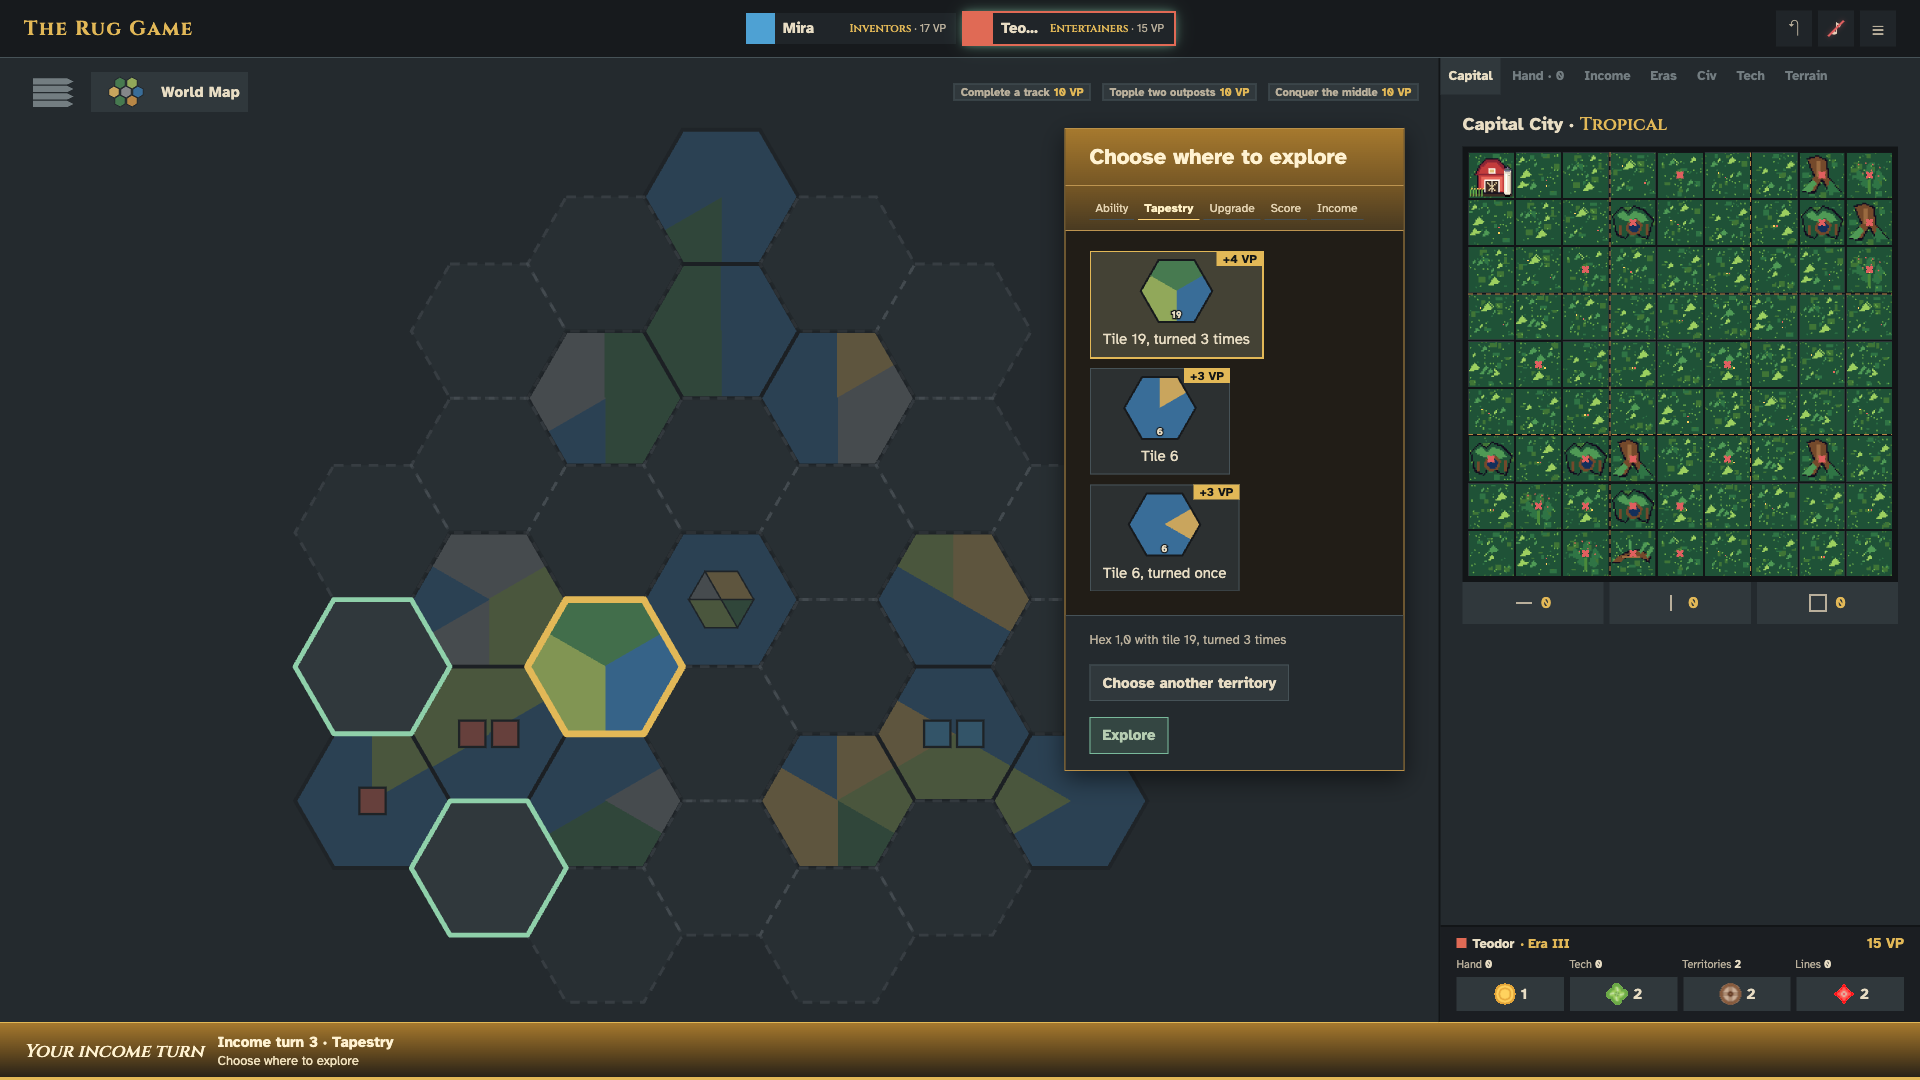
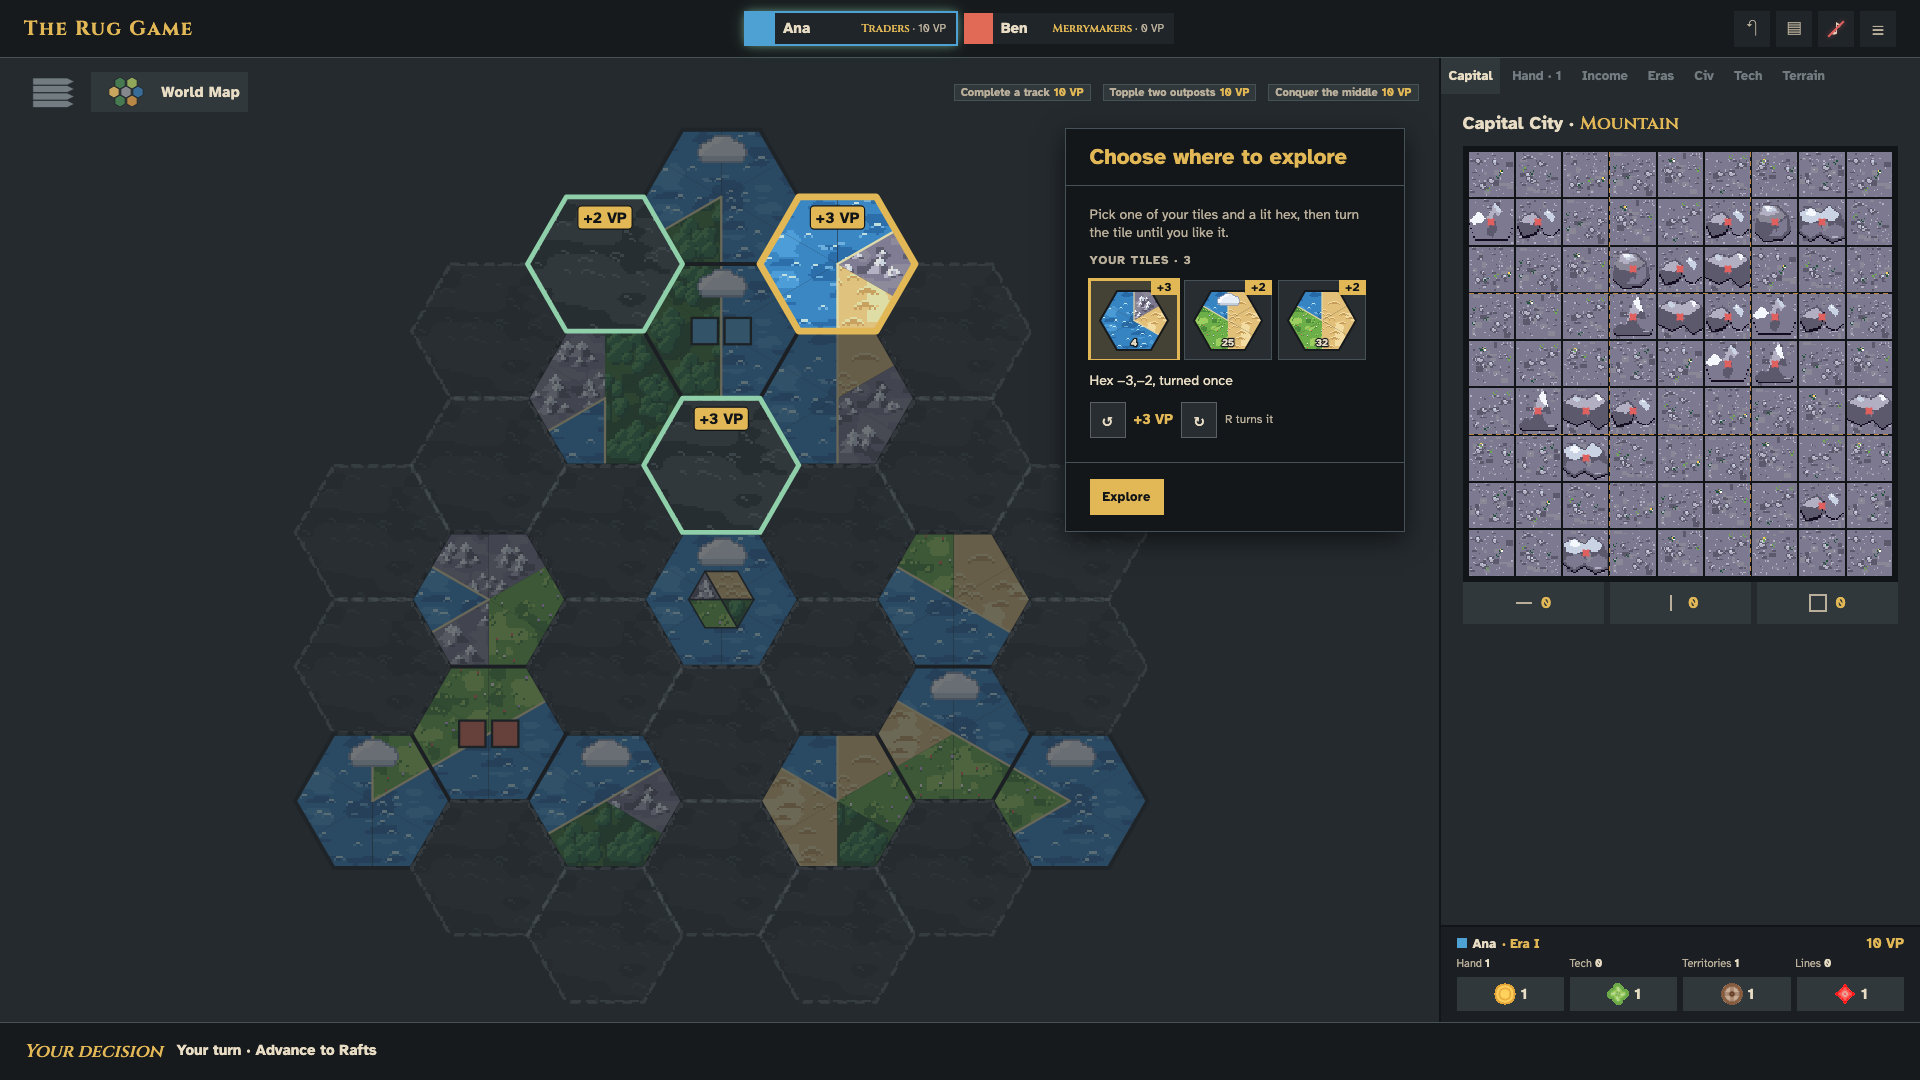
Refs #74: the README shows the new explore prompt

diff --git a/CLAUDE.md b/CLAUDE.md
@@ -57,7 +57,7 @@ GitHub Actions runs two jobs on every push and pull request (#55): `quality` (`n
 - `api/rooms.mjs` holds the table rules (#22) as pure transitions in Bird Table's style: `createRoom`, `configure`, `join`, `addSeat`, `removeSeat`, `leave`, `start`, `end` and `play`, plus `settings`, `undo`, `timeout`, `tick`, `nextDeadline`, `scopeOf`, `phase`, `seatsOf` and `cleanName`. #25 adds `ready` (a seat's readiness in an online lobby, cleared by a host change). #29 adds `deal` (0 before the first deal, 1 more at each `start`, in the room view), so the client tells a new deal from the old game. #24 adds `TIMERS` (off, 1, 2 and 5 minutes), `HISTORY_LIMIT` (20 undo steps) and `AUTO_LIMIT` (1,000 automatic answers in a row), and the room fields `timer`, `undo`, `clocks`, `declines` and `history`. Each returns a new room, or `null` when it closes, and throws the engine's `PlayerError`. The code says room, players see table. For the server's `Map` of rooms it has `newCode`, `addRoom` (`MAX_ROOMS` 1,000), `expireRooms` (`ROOM_IDLE_MS`, a day), `openTables` and `unfinishedSeat`. Room seat `i` is game seat `i + 1`; seats never move or disappear while a game is on the table. It uses the engine only through `src/lib/engine/game.js`, whose `checkOptions()` checks a table's options.
 - **Client.** The browser interface is **Svelte 5** with runes forced on (5.57.2), built by **Vite** (8.3.4), without SvelteKit. The project root is Vite's root, laid out like the owner's other Svelte projects (owner, 2026-10-21). The full layout is in CONVENTIONS.md.
   - `index.html` is the game page. `src/main.js` mounts `src/App.svelte`, which shows one screen at a time from the store (#25): `src/screens/Landing.svelte`, `Lobby.svelte` and, once a game is dealt, `Game.svelte` (#26), with `PageHeader.svelte` and `HelpPanel.svelte`. Screens own state and call the store; the components in `src/lib/components/` stay presentational.
-  - The client's plain modules (#25), each tested under Vitest: `src/lib/api.js` (`createApi`, `ApiError`; the token in `sessionStorage`, so each tab is its own guest), `changes.js` (`change()`: a stale version is retried once while the seats stay the same), `boot.js` (where a returning tab lands), `poll.js` (`pollTable`, one long poll at a time with back-off), `lobby.js` (seat slots, who may change what, labels) and `names.js` (Lazar's name generator). #26 adds `turn.js` (`myDecision`, `advanceOptions`: the engine's own `advances()` and answers run on the viewer's view), `moves.js` (`sendMove`, `seatToShow`), `board.js` (the tracks and achievements), `hexmap.js` (the board's hex geometry and `mapHexes`), `describe.js` (plain English for effects, costs, decisions and answers), `clock.js` and `overview.js`. #27 adds `src/lib/area/` (`capital.js`, `income.js`, `terrain.js`, `tabs.js`, `players.js`: what each player tab and the overview draw from a seat of the view) and `src/lib/cards/game-cards.js` (`techCardData`, `tapestryCardData` from the engine through `describe.js`); the screens `src/screens/game/PlayerTabs.svelte` and `PlayersOverview.svelte`. #28 adds `src/lib/prompts.js` (`promptFor`, `incomeView`, `effectArt`: what the decision panel draws for an open decision), `src/lib/area/explore.js` (`exploreChoices`: each tile and turn on a hex with its VP) and `src/lib/area/placement-targets.js` (`plotTargets`, `legalNear`, `nextRotation`, `placeNear`, `placingPiece`: the capital's legal places for the Capital tab). #29 adds `src/lib/event-feed.js` (`freshEvents`: the events since the last view of the same table and deal, none after a refresh; `liveEvents`: without what an `undone` took back), `log.js` (`eventText`, `logEntries`, `SILENT`: the log's words), `results.js` (`standings`, `tieExplanations`, `yourResult`, `ruleNote`, `tableFacts`, `scoreboard`, `VP_SOURCES`), `sound.js` (`cueFor`, `createSoundPlayer`, the CC0 Kenney cues in `static/audio/`) and `motion.js` (`highlights`); the store keeps `fresh` and `freshCount`, and App shows `src/screens/Results.svelte` for a finished game unless the player reviews the board. #30 adds `src/lib/pass.js` (`handOver`: at a hot-seat table, which view to take or ask for and whom the pass screen names; `passReason`) and the screen `src/screens/HandOver.svelte`; the store keeps `passing`, `taking` and `takeSeat()`, and App shows the pass screen instead of the game while a player is named. #59 adds `src/lib/glyphs.js` (`effectGlyphs`, `spaceGlyphs`, `bonusGlyphs`: what a track space draws for its benefit and bonus), and #56 `matPlots` and `terrainSeed` in `src/lib/area/capital.js`. `src/lib/game.svelte.js` is the rune store that ties them together. `src/lib/engine/game.js` also exports `completeDistricts`, `uniformLines`, `matchingSides`, `turned`, `INCOME_STEPS`, `INCOME_STEP_KINDS`, and `advances`, `DECISIONS`, `openDecisions`, `controlledTerritories`, `cityPlots` and `completeLines` for the app.
+  - The client's plain modules (#25), each tested under Vitest: `src/lib/api.js` (`createApi`, `ApiError`; the token in `sessionStorage`, so each tab is its own guest), `changes.js` (`change()`: a stale version is retried once while the seats stay the same), `boot.js` (where a returning tab lands), `poll.js` (`pollTable`, one long poll at a time with back-off), `lobby.js` (seat slots, who may change what, labels) and `names.js` (Lazar's name generator). #26 adds `turn.js` (`myDecision`, `advanceOptions`: the engine's own `advances()` and answers run on the viewer's view), `moves.js` (`sendMove`, `seatToShow`), `board.js` (the tracks and achievements), `hexmap.js` (the board's hex geometry and `mapHexes`), `describe.js` (plain English for effects, costs, decisions and answers), `clock.js` and `overview.js`. #27 adds `src/lib/area/` (`capital.js`, `income.js`, `terrain.js`, `tabs.js`, `players.js`: what each player tab and the overview draw from a seat of the view) and `src/lib/cards/game-cards.js` (`techCardData`, `tapestryCardData` from the engine through `describe.js`); the screens `src/screens/game/PlayerTabs.svelte` and `PlayersOverview.svelte`. #28 adds `src/lib/prompts.js` (`promptFor`, `incomeView`, `effectArt`: what the decision panel draws for an open decision), `src/lib/area/explore.js` (`exploreTiles`, `tileScores`, `hexScores`, `exploreIndex`, `tilePreview`, `tileWords`, `exploreLine`: the tiles an explore offers, what each scores on each hex in each turn, and the words for the chosen one; #74 replaced `exploreChoices`) and `src/lib/area/placement-targets.js` (`plotTargets`, `legalNear`, `nextRotation`, `placeNear`, `placingPiece`: the capital's legal places for the Capital tab). #29 adds `src/lib/event-feed.js` (`freshEvents`: the events since the last view of the same table and deal, none after a refresh; `liveEvents`: without what an `undone` took back), `log.js` (`eventText`, `logEntries`, `SILENT`: the log's words), `results.js` (`standings`, `tieExplanations`, `yourResult`, `ruleNote`, `tableFacts`, `scoreboard`, `VP_SOURCES`), `sound.js` (`cueFor`, `createSoundPlayer`, the CC0 Kenney cues in `static/audio/`) and `motion.js` (`highlights`); the store keeps `fresh` and `freshCount`, and App shows `src/screens/Results.svelte` for a finished game unless the player reviews the board. #30 adds `src/lib/pass.js` (`handOver`: at a hot-seat table, which view to take or ask for and whom the pass screen names; `passReason`) and the screen `src/screens/HandOver.svelte`; the store keeps `passing`, `taking` and `takeSeat()`, and App shows the pass screen instead of the game while a player is named. #59 adds `src/lib/glyphs.js` (`effectGlyphs`, `spaceGlyphs`, `bonusGlyphs`: what a track space draws for its benefit and bonus), and #56 `matPlots` and `terrainSeed` in `src/lib/area/capital.js`. `src/lib/game.svelte.js` is the rune store that ties them together. `src/lib/engine/game.js` also exports `completeDistricts`, `uniformLines`, `matchingSides`, `turned`, `INCOME_STEPS`, `INCOME_STEP_KINDS`, and `advances`, `DECISIONS`, `openDecisions`, `controlledTerritories`, `cityPlots` and `completeLines` for the app.
   - `components.html` is the component library page (#48). `src/library/main.js` mounts `src/library/Library.svelte`, which collects every `src/library/sections/<area>/<Name>.svelte` and shows each component in all its states. `src/lib/components/README.md` indexes the components.
   - `src/lib/` holds everything the app shares:
     - `components/<area>/` holds the Svelte components, grouped by area;
@@ -85,7 +85,7 @@ GitHub Actions runs two jobs on every push and pull request (#55): `quality` (`n
   - `npm run art` writes the SVGs into `static/art/`, which are committed. Tests fail when a committed SVG is out of date.
   - The art is reviewed in the **Art** part of the component library (`/components.html`): every scene part, and every asset in the catalog, drawn or as an empty slot naming its issue, with landmarks under their plot grid. It draws straight from the toolkit, so with `npm run dev` a changed drawing shows at once. It replaced the standalone `art/preview/index.html` gallery (owner, 2026-10-21).
 - `tests/` holds the Vitest suites, `tests/*.test.mjs`, configured in `vite.config.js`'s `test` block, with `node:assert/strict` assertions (#55). Server tests import `server` and listen on port 0, so they never need fixed ports. `tests/helpers/` holds the shared helpers: `build.mjs` (Vitest's global setup, which builds `build/` once), `engine.mjs` (new and started games), `views.mjs` (`checkViews`), `invariants.mjs` (`checkState`) and `simulation.mjs` (one random game).
-- `tests/browser/` holds the Playwright tests (`playwright.config.js`, one Chromium project, as svelte_components runs its own): the library page shows every section and the game page the landing page, without console errors; `setup-prompts.test.mjs` plays setup at 1920×1080 and checks the capital grids, the civilization cards and the track spaces (#56–#59); `pass-screen.test.mjs` checks that a hot-seat seat's own view is asked for only after its player takes the screen (#30); `track-text.test.mjs` checks that the track spaces keep 10px text at 1920×1080 and grow it up to 2560×1440 and beyond, with nothing cut off (#69). Each screen adds its browser tests here. A test that creates a table must end and leave it, because the server allows 10 open tables per address and a running game stays open for a day.
+- `tests/browser/` holds the Playwright tests (`playwright.config.js`, one Chromium project, as svelte_components runs its own): the library page shows every section and the game page the landing page, without console errors; `setup-prompts.test.mjs` plays setup at 1920×1080 and checks the capital grids, the civilization cards and the track spaces (#56–#59); `pass-screen.test.mjs` checks that a hot-seat seat's own view is asked for only after its player takes the screen (#30); `track-text.test.mjs` checks that the track spaces keep 10px text at 1920×1080 and grow it up to 2560×1440 and beyond, with nothing cut off (#69); `explore-prompt.test.mjs` explores with the tile the player picks, on the hex they click, turned with the R key (#74). Each screen adds its browser tests here. A test that creates a table must end and leave it, because the server allows 10 open tables per address and a running game stays open for a day.
 
 ## Where the work stands
 
@@ -103,7 +103,7 @@ Updated 2026-10-27. Update this section whenever a milestone moves.
   - The component library (#48, 2026-10-21): 34 components in `src/lib/components/`, each shown in all its states on `/components.html`, which also holds the art. Several components show placeholders until their art lands; `src/lib/components/README.md` lists them. The owner closed #48 on 2026-10-21, ahead of its blocker #3.
   - The approved art style C (`docs/art/`).
   - All 43 issues filed in [serferdinand2/the-rug-game](https://github.com/serferdinand2/the-rug-game/issues).
-- **#1, #2, #3, #4, #7, #8, #9, #10, #11, #12, #13, #14, #15, #16, #17, #18, #19, #20, #21, #22, #23, #24, #25, #26, #27, #28, #29, #30, #44, #46, #48, #52, #53, #54, #55, #56, #57, #58 and #59 are done.** Lazar closed #3 on 2026-10-27.
+- **#1, #2, #3, #4, #7, #8, #9, #10, #11, #12, #13, #14, #15, #16, #17, #18, #19, #20, #21, #22, #23, #24, #25, #26, #27, #28, #29, #30, #44, #46, #48, #52, #53, #54, #55, #56, #57, #58, #59, #67 and #72 are done.** Lazar closed #3 on 2026-10-27.
   - The Node server, tests and CI exist.
   - The client is a Svelte 5 app built by Vite. The landing page, the lobby (#25), the play screen (#26), the player area (#27) and the designed prompts (#28) are built; a whole base game can be played with the mouse.
   - Every unverified rule detail is decided in the README's "Rules conventions" (R1–R110).
@@ -388,6 +388,15 @@ Updated 2026-10-27. Update this section whenever a milestone moves.
   - Known gaps: `CapitalGrid`'s own fit check stops R and the arrow keys at places over the edge (R106) or under Terraforming, which a plot click or a drop still reaches; a trap response and a tapestry discard never came up in the walkthrough (the prompt tests cover them).
   - The final review found that a Nomads player could never place in their capital (their territories took the prompt over); the capital now leads and the map's hexes stay lit beside it, and the panel docks whenever the map shows hexes to choose. It also made the card shelf scroll rather than clip, fanned tapestry cards only past four, and centred landmarks.
   - `tests/client-prompts`, `client-area-explore` and `client-area-placement` cover it. Two hot-seat games were played to the end in the browser through the prompts alone, and a third checked the Nomads' placement.
+- **#72, #67, #69 and #74 (the owner's M12 issues)** were built on 2026-10-27 without a question round. #72 and #67 are done; #69 and #74 stay open until the owner has looked at them in the component library.
+  - **#72:** the progress lines and the chips' fill animate with transforms, not widths.
+  - **#67:** the screen headline sizes are tokens in `tokens.css` (`--font-size-4xl`, `-5xl`, `-6xl` and `--font-size-display-sm`, `-display`, `-display-lg`).
+  - **#69:** track-space text grows to 11px from about 2240×1260 and to 12px from 2560×1440; `tests/browser/track-text.test.mjs` checks nothing is cut off. It awaits the owner's look in the library's TrackSpace section.
+  - **#74 (the explore prompt):** the design is `docs/superpowers/specs/2026-10-27-explore-prompt-design.md` and the plan is `docs/superpowers/plans/2026-10-27-explore-prompt-issue-74.md`.
+    - Built: the docked panel shows the player's tiles as pictures ("Your tiles · n", `TilePicker`), a chosen line ("Hex −1,−1, turned once") and `TurnControl` (↺, "+3 VP", ↻, "R turns it"), pinned above Explore while the tiles scroll (`DecisionPanel`'s `pinned` snippet). The tile or the hex can be picked first; a hex first picks the lowest-numbered tile at its best turn. With a tile picked, each lit hex shows its best VP as a "+N VP" tag (`WorldMap`'s `scores`). R and Shift+R turn the tile. The Terrain tab's offered tiles are buttons too (`PlayerTabs`' `tilePick`). `describeTurn` replaced `describeTile`.
+    - Calls to revisit: the best turn is the highest VP, then the lowest turn; picking another tile or hex keeps the other and moves to its best turn; no cancel button (another hex is one click away); one tile is picked from the start; the 6 turns of an island tile still step through all 6; the row wraps and Explore stays visible; the tile numbers print on the pictures; a tile's accessible name gives its terrains and best VP.
+    - It awaits the owner's look in the library's TilePicker, TurnControl, DecisionPanel and WorldMap sections.
+    - `tests/browser/explore-prompt.test.mjs` plays a hot-seat table to an explore and closes it.
 - **Decided 2026-10-27:**
   - Lazar's mockups decide the look and the owner's design decides what works, where they collide; the client is designed for our own API (owner, #25).
   - Readiness is informational: the host may start without it (owner, #25).

diff --git a/docs/ui/README.md b/docs/ui/README.md
@@ -230,7 +230,7 @@ The arrangement and selection styling are the reference. Labels such as Archipel
 
 ![Cards on the shelf](screens/game-prompt-cards.png)
 
-![Exploring a territory](screens/game-prompt-explore.png)
+![Exploring a territory: the player's tiles in the panel, each lit hex with the picked tile's best VP, and the chosen hex previewing it turned once](screens/game-prompt-explore.png)
 
 ![Placing a landmark](screens/game-prompt-capital.png)
 
@@ -241,7 +241,7 @@ The arrangement and selection styling are the reference. Labels such as Archipel
 - **Art, as in the mockup:** resources at 48 px with their counts, track symbols, buildings, landmarks, civilization portraits, space and territory tiles; dice faces and VP are words (#5). A bonus shows its cost and takes its track's colour.
 - **Cards** sit on a shelf above the panel, as full cards: tapestry cards (play, keep, discard, copy, respond), tech cards with the deck as a card back, both civilizations at setup and the two capital mats. Hovering a tapestry or tech card shows it in full.
 - **Civilizations and capital mats** (2026-10-27, #56–#58): the civilization cards are whole, 425 px wide at their own height, as the decision mockup shows them, and the gold outline wraps each card exactly. A row too tall for the shelf is scaled down just enough, never below 0.75; past that the shelf scrolls (the Mystics at 1440×900). Each capital mat is its real 9×9 grid, 380 px, composed from the terrain tiles with the table's seed, so it looks as it will in the Capital tab; the example mat art is no longer used. A panel with no options of its own has no content area: its status line gives the instruction, leaving the shelf more height.
-- **The map:** choosing a territory lists its answers. An explore starts on the best-scoring tile and turn, previewed on the hex, and lists every tile in every turn with the VP it scores.
+- **The map:** choosing a territory lists its answers. An explore (#74) shows the tiles the player holds as pictures in the panel. Pick a tile and every lit hex shows the most that tile scores there. Pick a hex and the tile goes on it at its best turn, previewed on the map. Turn it with the arrows or the R key until it suits; the chosen line and the VP beside the arrows follow. Explore stays in view however many tiles there are. The Terrain tab's tiles can be picked too.
 - **The capital:** a building's open plots are lit on the Capital tab and a click previews it there; a landmark comes from the tray, snaps only to the engine's legal places, turns with R, and the piece's own lock sends it. Beside the mat and the Craftsmen's columns stay panel choices.
 - **The income turn** is gold, as in the mockup: the panel's title and step strip (Ability, Tapestry, Upgrade, Score, Income, only the steps that turn runs) and the footer's "Your income turn · Income turn n · step".
 

diff --git a/README.md b/README.md
@@ -50,7 +50,7 @@ The colours, texture, type, spacing, shadows and motion of these designs are in 
 
 | Prompt: cards on the shelf (the tapestry draft) | Prompt: exploring a territory |
 |---|---|
-| ![The tapestry draft's keep prompt: two cards on the shelf above the gold income panel](docs/ui/screens/game-prompt-cards.png) | ![An explore: the chosen hex previews the best tile, and the panel lists each tile and turn with its VP](docs/ui/screens/game-prompt-explore.png) |
+| ![The tapestry draft's keep prompt: two cards on the shelf above the gold income panel](docs/ui/screens/game-prompt-cards.png) | ![An explore: the player's tiles in the panel, each lit hex with the picked tile's best VP, and the chosen hex previewing it turned once](docs/ui/screens/game-prompt-explore.png) |
 
 | Results: the final standings | The log and the scores |
 |---|---|
